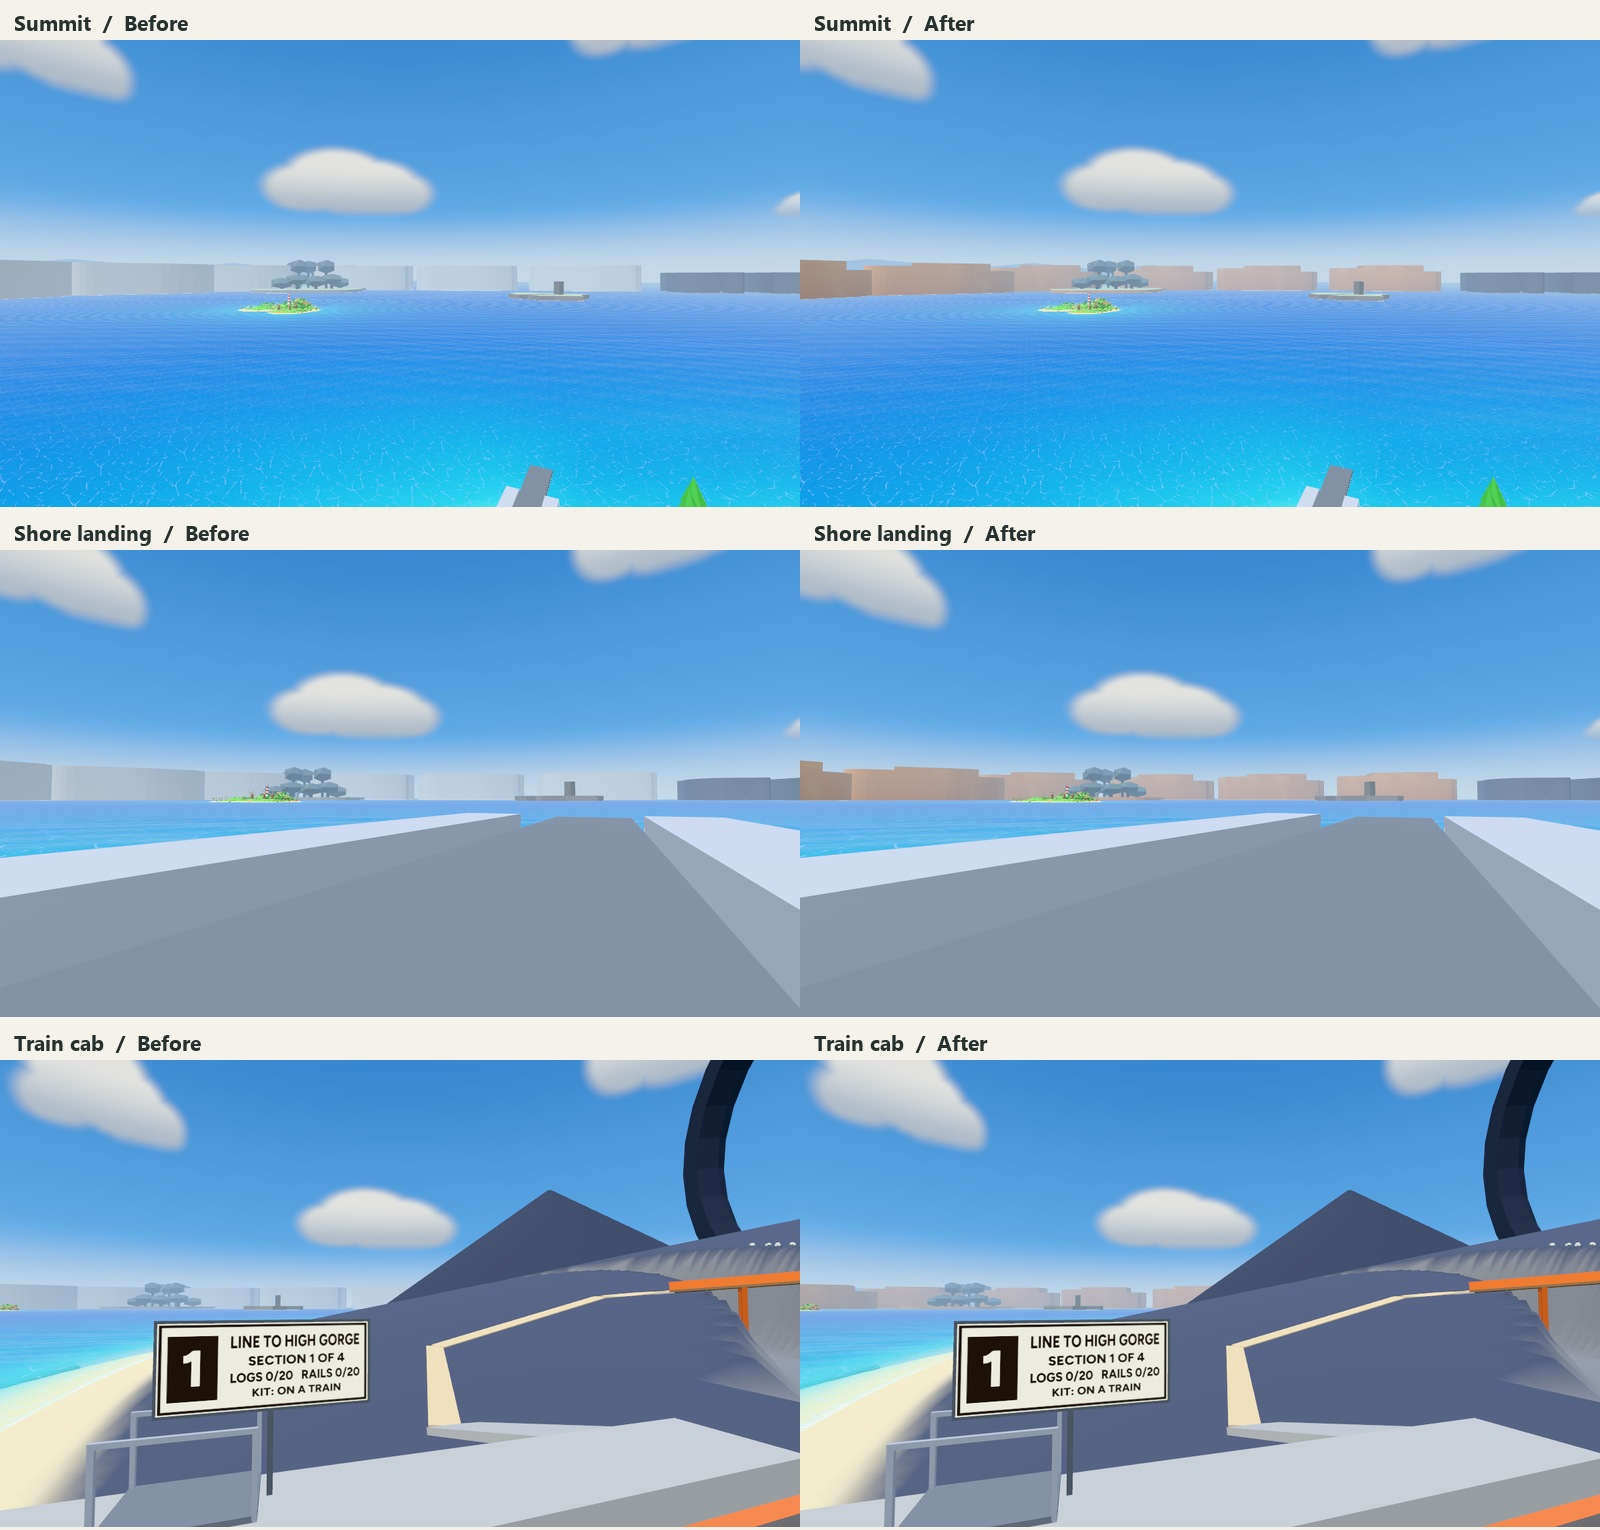
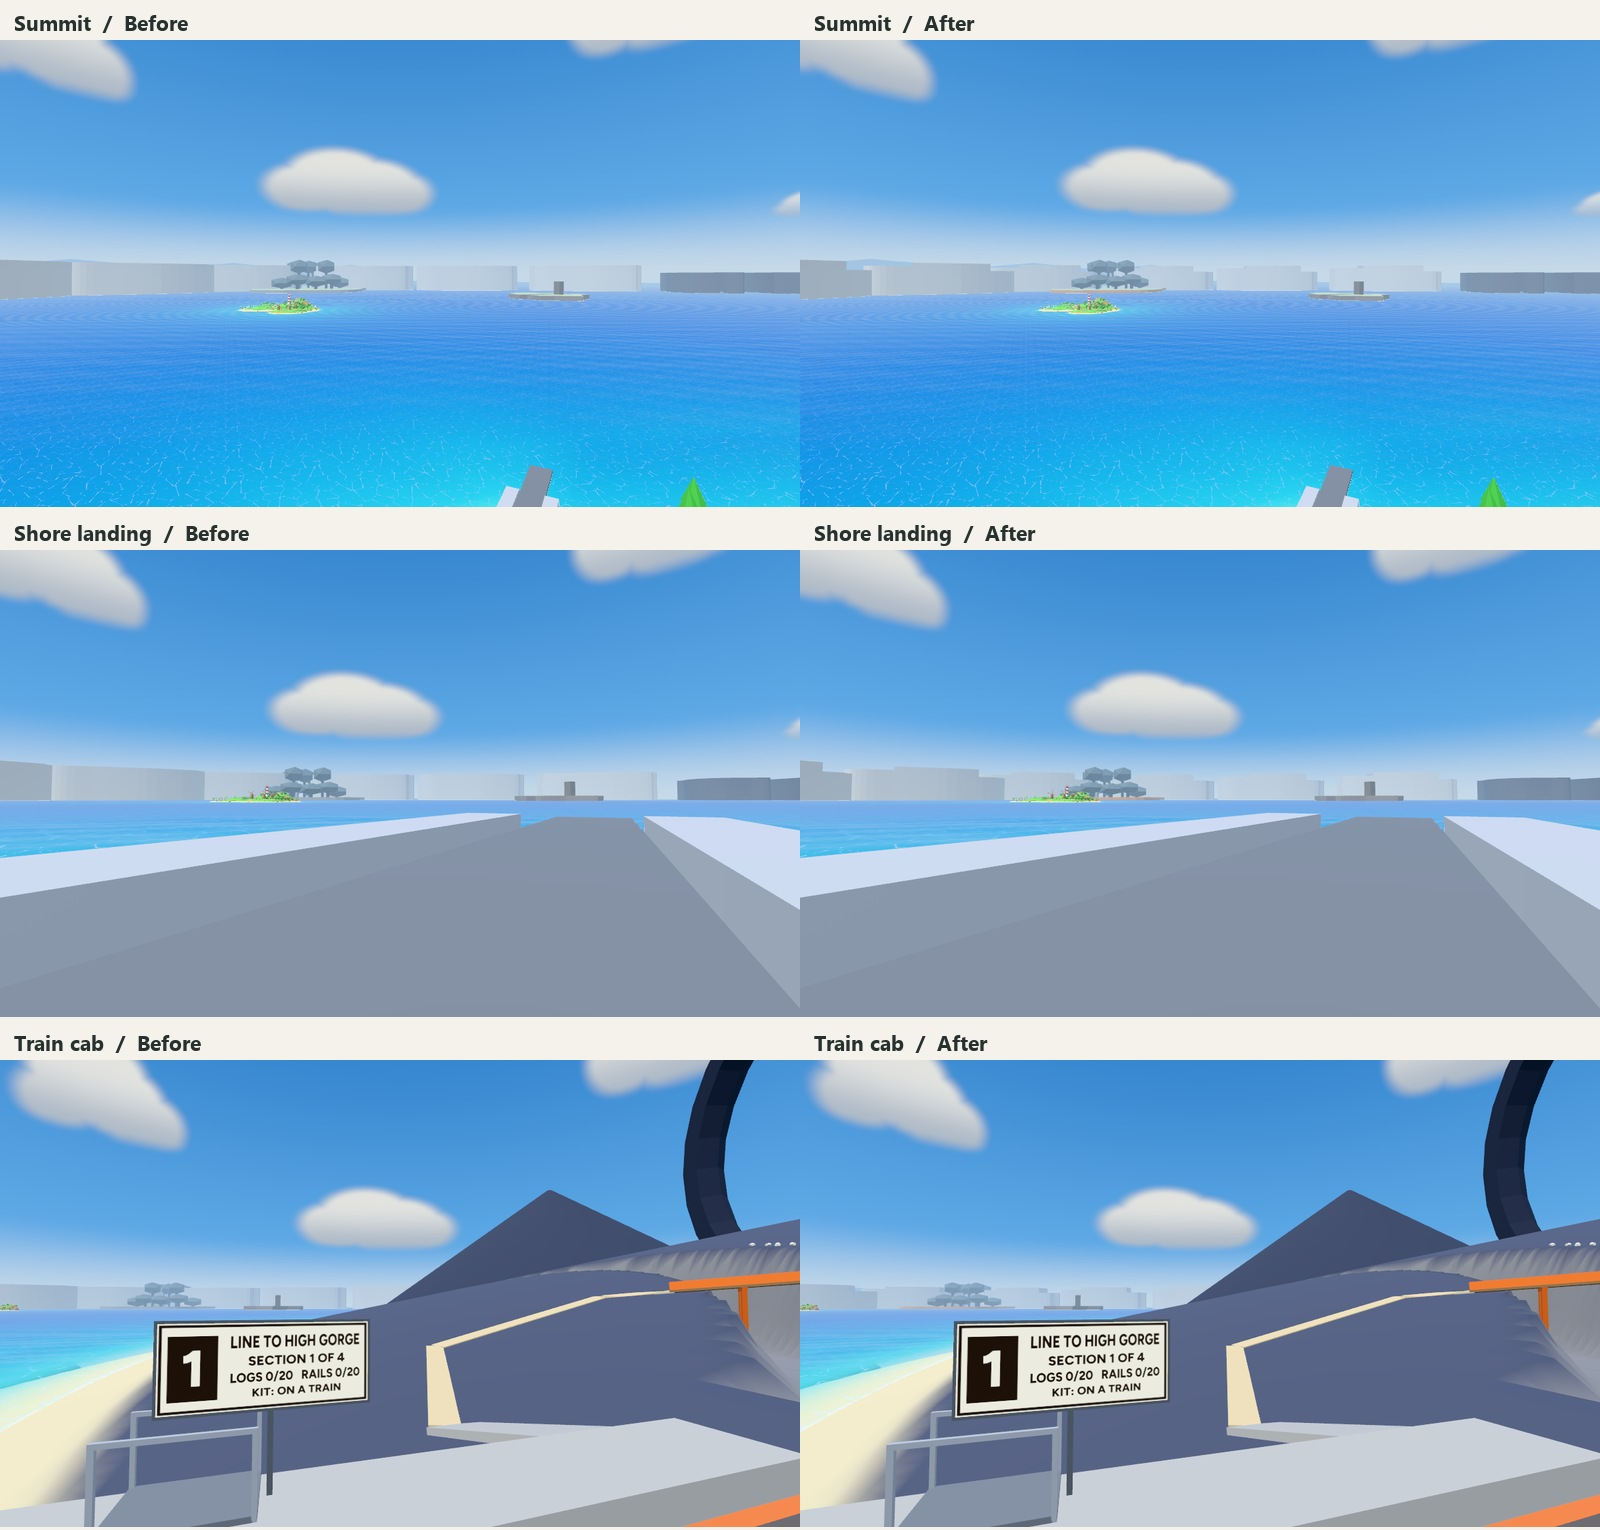
Keep the White Wall chalk in the kit's stepped courses, on his word

diff --git a/src/entities/sickle-backdrop/view.ts b/src/entities/sickle-backdrop/view.ts
@@ -106,8 +106,8 @@ export function createBackdrop() {
         }
         y = level;
       }
-      add(geometry(), '#ffffff');
-      sandstone.add(parts.at(-1)!);
+      // The White Wall stays chalk: the kit's stepped courses, not its sandstone (his word, 25 November).
+      add(geometry(), '#c9c5bb');
       continue;
     }
     cap(outline, top);

diff --git a/docs/plans/cliff-kit-everywhere.md b/docs/plans/cliff-kit-everywhere.md
@@ -640,7 +640,7 @@ The Works kiln action used the Chop prompt on the last stone in the seeded bowl 
 
 ## Step 9 as built
 
-The six White Wall islets rise in three broad courses. Their faces sample the kit's sandstone pigment at vertices and their horizontal shelves take its sun bleaching. The backdrop still draws as one shadowless mesh with no colliders. The [matched summit, landing and train views](cliff-kit-everywhere/horizon-before-after.jpg) show the same warm stone as the shore and Far Head sheets, softened by distance. All three skylines have clean edges and open water between the islands.
+The six White Wall islets rise in three broad courses and stay chalk (`#c9c5bb`) on his word (25 November: the White Wall keeps its name and Canopy's chalk; the first build had them sandstone). The other untinted island walls sample the kit's sandstone pigment at vertices and their horizontal shelves take its sun bleaching. The backdrop still draws as one shadowless mesh with no colliders. The [matched summit, landing and train views](cliff-kit-everywhere/horizon-before-after.jpg) show the chalk wall in the kit's stepped shape beside the warm stone of the other islands, softened by distance. All three skylines have clean edges and open water between the islands.
 
 The census against main `18b88f299` measured 756 additional triangles at all seven cameras, including colour and shadow passes. The gorge mouth varied by one draw between two main samples. The table uses the sample with the matching draw count.
 

diff --git a/docs/game-design/sickle-greybox.md b/docs/game-design/sickle-greybox.md
@@ -6,7 +6,7 @@ clipped Gorge, High Port with its harbour and cranes, Lantern Notch's arch and t
 Ring Island and the Original Island retain their existing live meshes. It adds no colliders, railways,
 labels, flags, panels, shared state or per-frame work. The current line-2 production area is unchanged;
 Split-rock Works is a separate job. Existing outdoor fog (180–3600 m) fades the horizon.
-The White Wall's chalk islets rise in three broad steps. Their faces and the untinted island walls use the cliff kit's sandstone pigment sampled at vertices, with lighter horizontal ledges. All quality tiers share the same shadowless silhouette.
+The White Wall's chalk islets rise in three broad steps and stay chalk (`#c9c5bb`). The untinted island walls use the cliff kit's sandstone pigment sampled at vertices, with lighter horizontal ledges. All quality tiers share the same shadowless silhouette.
 The dev greybox and the walkable blockout replace this horizon while on, avoiding duplicate islands.
 
 `?greybox=sickle` loads the full planning blockout on the dev server. Its walkable geometry, review tools and rides
